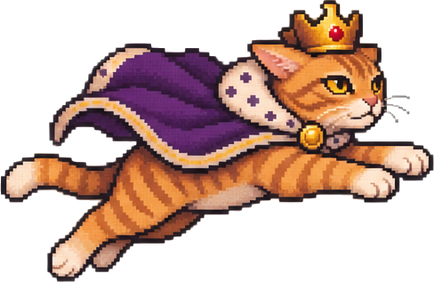
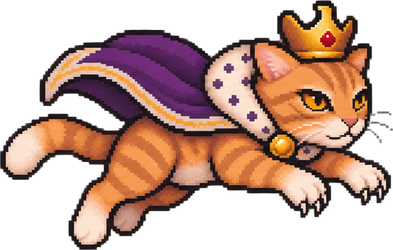
Puiutu: no crash when the Cat King pounces, and a proper leap and landing
The pounce lifted him high enough that the boss ground shadow got a negative
radius and the canvas threw, which stopped the game. The shadow now never
shrinks below 30%. The leap is redrawn as a compact jump (pounce) plus a landing
frame (land), shown as he rises and comes down.

diff --git a/life_of_puiutu_game.html b/life_of_puiutu_game.html
@@ -2918,8 +2918,8 @@ const LIONI={};
 LIONI.throw=LIONI.roar; LIONI.def=LIONI.crack;          // aliases for the shared boss drawer
 const CKINGI={};
 ['walk0','walk1','walk2','walk3','walk4','walk5','walk6','walk7','stand','sit','wave','yell',
- 'point','command','hurt','down','pounce','cast','idle','windup','swipe']
-  .forEach(k=>{ const im=new Image(); im.src='mobs/catking/'+k+'.png?v=4'; CKINGI[k]=im; });   // v4: redrawn in the game's pixel style
+ 'point','command','hurt','down','pounce','cast','idle','windup','swipe','land']
+  .forEach(k=>{ const im=new Image(); im.src='mobs/catking/'+k+'.png?v=5'; CKINGI[k]=im; });   // v4: redrawn in the game's pixel style
 CKINGI.rear=CKINGI.pounce; CKINGI.throw=CKINGI.yell; CKINGI.dash=CKINGI.pounce; CKINGI.def=CKINGI.down;
 // ── Rattus Magnus — the exact inverse of the Cat King, and his sheet says so ──
 // No materialise frames, no shatter frames: nothing here is a projection. He starts on all fours,
@@ -3029,7 +3029,8 @@ function drawBossSprite(ctx,sx,sy,facing,h,key,enraged,bob,sprites,aura,footPad)
   ctx.restore();
   // ground shadow — sized to the sprite's actual width so wide bosses read as grounded, not floating
   ctx.save();ctx.globalAlpha=0.28;ctx.fillStyle='#000';
-  ctx.beginPath();ctx.ellipse(sx,sy+1,w*0.40*(1-bob/26),h*0.07*(1-bob/26),0,0,7);ctx.fill();ctx.restore();
+  const shrink=Math.max(0.3,1-bob/26);   // a high jump (the Cat King's pounce) must not push the radius below zero
+  ctx.beginPath();ctx.ellipse(sx,sy+1,w*0.40*shrink,h*0.07*shrink,0,0,7);ctx.fill();ctx.restore();
   if(img&&img.complete&&img.naturalWidth){
     ctx.save();ctx.translate(sx,sy-bob);ctx.scale(Math.abs(facing)<1?facing:(facing<0?-1:1),1);   // fractional facing = mid-turn
     ctx.imageSmoothingEnabled=true;ctx.imageSmoothingQuality='high';
@@ -9357,7 +9358,7 @@ function drawCatKing(g,b){
     const key = b.state==='claw'   ? (lion?'rear':'swipe')
               : b.state==='roar'   ? 'roar'
               : b.state==='windup' ? (lion?'rear':'windup')
-              : b.state==='dash'   ? (lion?'dash':'pounce')
+              : b.state==='dash'   ? (lion?'dash':(b.dashUntil-now>240?'pounce':'land'))   // up, then down to land
               : lion ? (Math.floor(b.phase*1.4)%2 ? 'walk1' : 'walk0')
               : 'walk'+(Math.floor(b.phase*2)%8);           // the King has a whole 8-frame walk
     const bsz=(lion?210:CKING_FIGHT_H)*sc;
